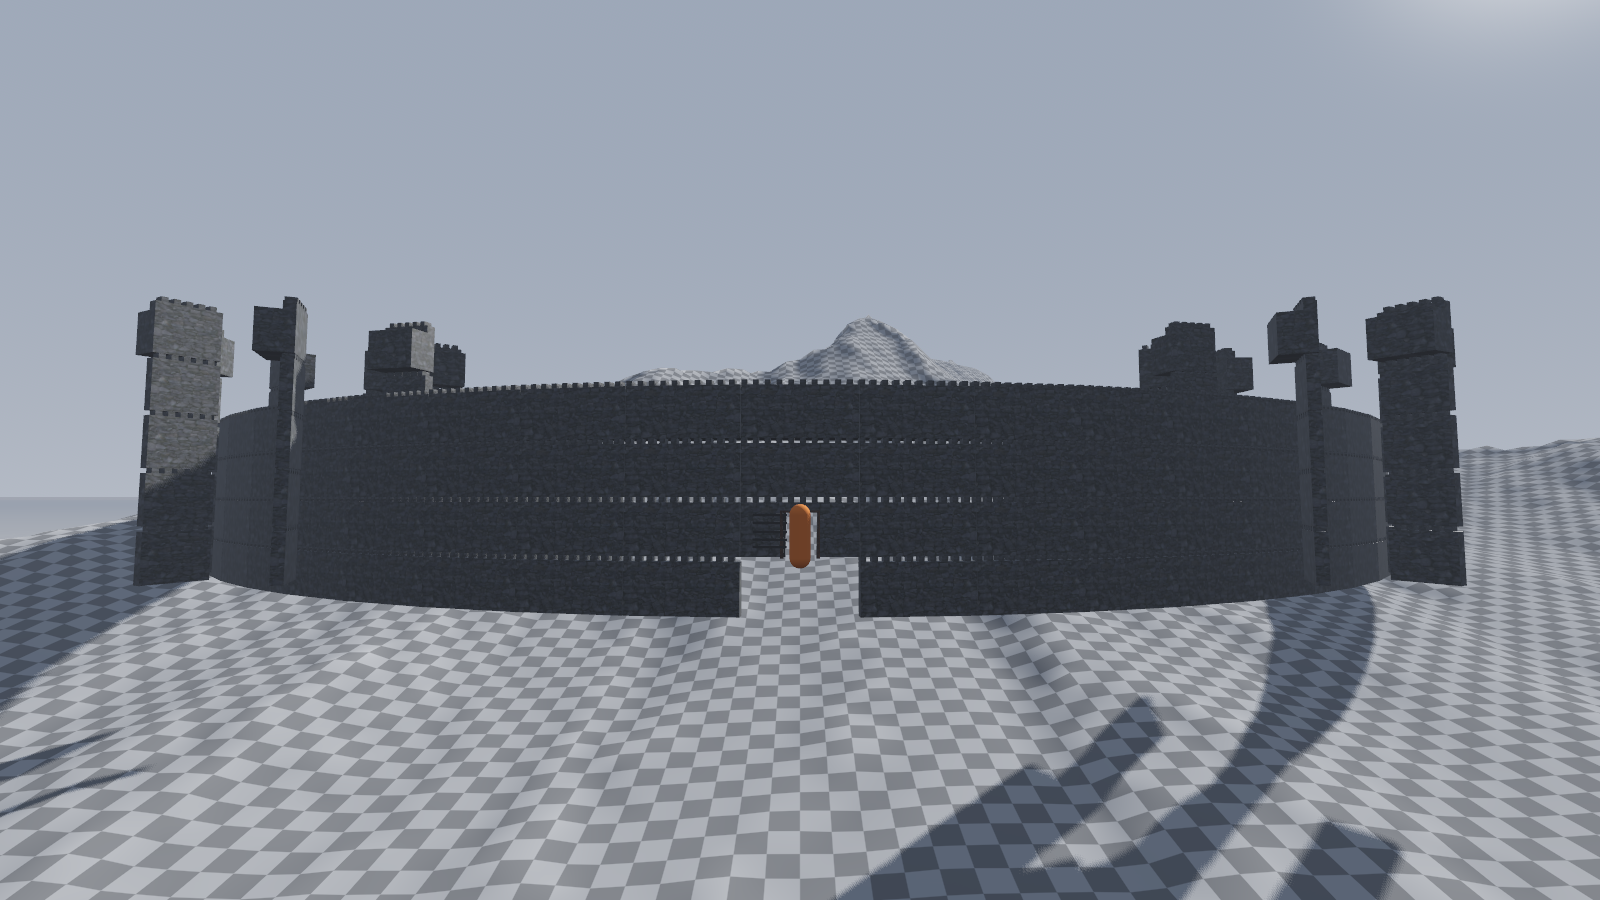
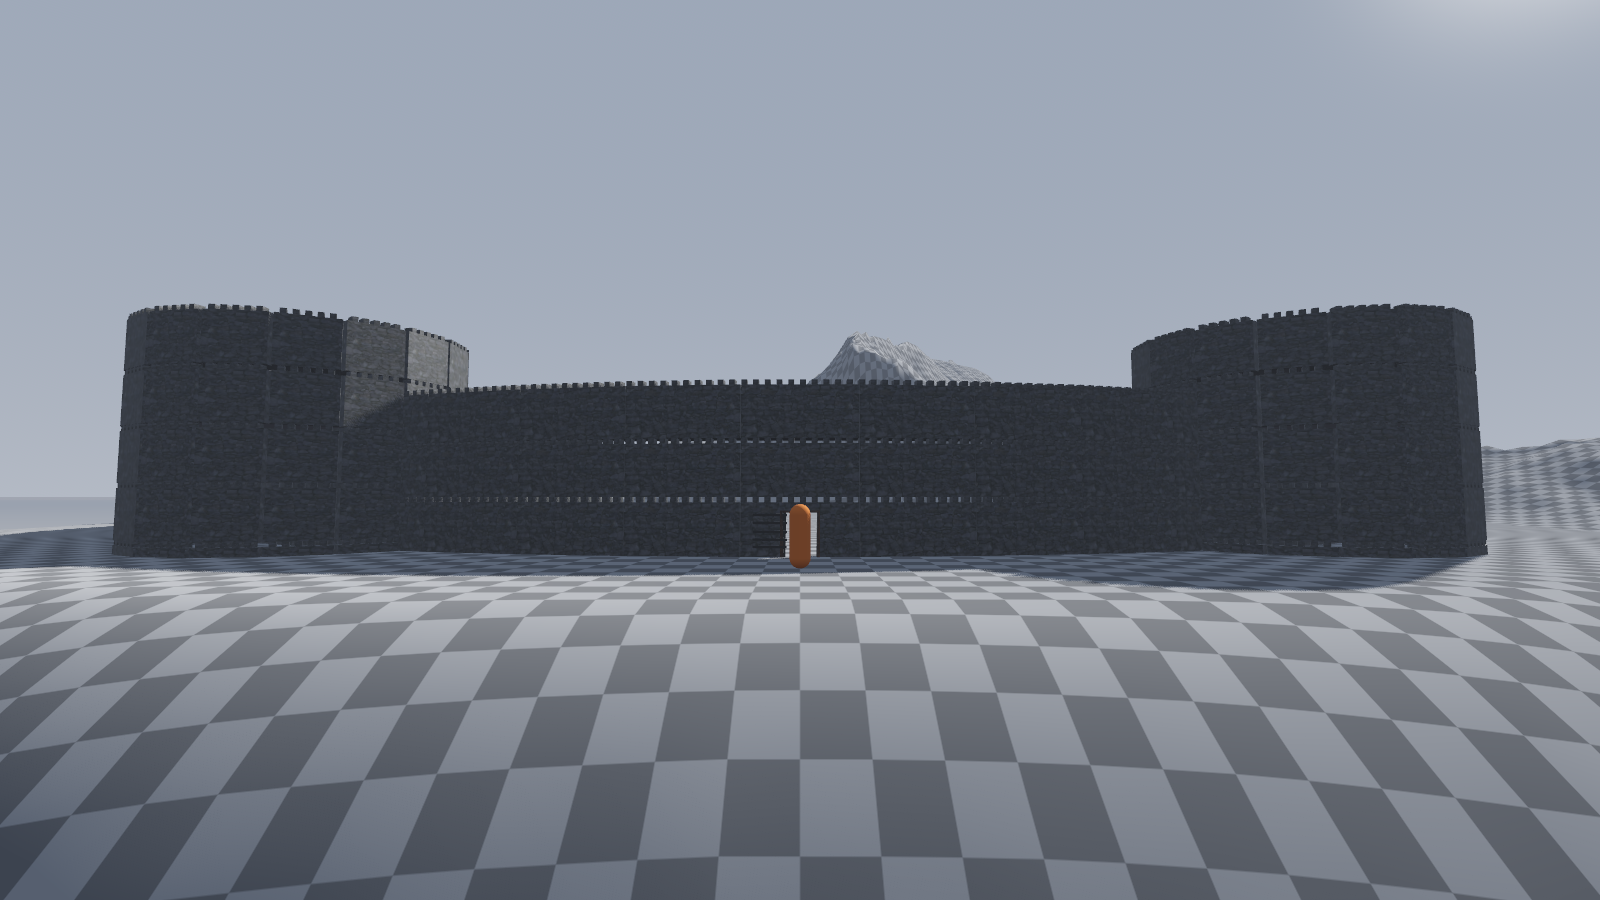
fix: seat fortress to ground, add wall access
Fixed floating walls/towers: Terrain3D flatten now calls data.update_maps() so the rendered/collision mesh actually flattens (get_height changed but the mesh was stale). Every wall/tower column is now seated to local ground (no floating). Round towers rebuilt with 2 m module spacing (closed ring) + inner platform at wall-walk height, and two stone staircases climb from the courtyard onto the wall-walk (entrances onto walls + towers). Added docs/fortress_reference_spec.md (Helm's Deep target: curtain wall, drum tower, gatehouse+ramp, bailey, grand stair, great hall).

diff --git a/docs/fortress_reference_spec.md b/docs/fortress_reference_spec.md
@@ -1,0 +1,87 @@
+# Fortress Reference Spec — "Helm's Deep" target
+
+Distilled from 4 reference images (LOTR film still, collectible diorama, aerial
+render, UE render). This is the visual target the modular build works toward.
+Muted, grounded, weathered — not a bright fantasy palace.
+
+## Overall composition (the "D")
+
+- A fortress wedged into a **rock gorge**: grey cliffs enclose the left, right
+  and rear. The buildable ground is the flat/low **coombe** in front.
+- A long, gently **curved curtain wall** (the *Deeping Wall*) sweeps across the
+  valley and ties into the cliff at its far end — the curved side of the "D".
+- Where the curtain meets the keep, a massive **round drum tower** anchors the bend.
+- The **keep/bailey** is a stack of round + rectangular terraces climbing the
+  rock, topped by a **great hall** built into the cliff — the rear/flat side.
+- Enemy approach = the open coombe in front of the curtain wall.
+
+## Element breakdown (with target dims + MCSTEEG mapping)
+
+1. **Deeping curtain wall**
+   - Long, gently curved, **level wall-walk** on top; **merlon parapet on the
+     OUTER edge only** (open on the courtyard side).
+   - Height ~6 m; **thick** (walk ~2 m clear) — currently too thin (single 0.4 m
+     module) → should be **double thickness**.
+   - Far end runs **into the cliff**; near end meets the drum tower.
+   - MCSTEEG: `Wall_2x4` courses + `Wall_2x4_walkway` (parapet) top, stacked; two
+     rows back-to-back for thickness.
+
+2. **Round drum tower** (the signature piece)
+   - Big **cylinder**, ~10–12 m diameter, taller than the wall (~9–12 m), with a
+     battlemented crown and a walkable top reached from the wall-walk.
+   - Angled **buttresses** at the base. Currently approximated by a ring of flat
+     modules (octagonal, thin) → wants a **fatter, rounder** ring + conical/flat cap.
+   - MCSTEEG: ring of `Wall_2x2`(+walkway); optionally `Roof_Cone` cap; `Tower_*`.
+
+3. **Gatehouse**
+   - A **large arched gate** (wooden doors) flanked by square towers with
+     battlements; a **ramp/causeway** climbs to it along the tower base.
+   - Opening target ~3.5 m wide × ~4 m high (kit gate opening is only ~2 m → stack
+     two gate courses or a bespoke arch).
+   - MCSTEEG: `Gate_2x4` + `Gate_Door`, flanking stacked towers; custom ramp.
+
+4. **Inner bailey / courtyard**
+   - A **round terraced courtyard** ringed by a low wall, inside the drum tower line.
+   - Flat plateau floor. This is where the grand stair begins.
+
+5. **Ramps + grand staircase**
+   - **Curved ramps** hug the round tower; a **broad grand staircase** rises from
+     the bailey up to the great-hall terrace.
+   - Currently only 2 straight utility stairs → wants a wide central stair +
+     curved ramp.
+
+6. **Great hall** (rear, into the cliff)
+   - Rectangular hall with a **row of ~5–6 arched openings (arcade)** + small
+     windows above, set against the rock at the highest terrace.
+   - MCSTEEG: `Building_Shape_Beveled_rectangle` masses + `Gate_2x4` arches as an
+     arcade + `Window_*`; roof `Roof_rectangle`. (No true arcade asset — approximate.)
+
+7. **Rock cliffs / backdrop**
+   - Rugged grey rock frames left/right/rear and the wall's far anchor.
+   - Currently the smooth heightmap hill → later replaced by low-poly cliff geometry.
+
+## Material / mood
+
+- **Muted grey ashlar** with a **green mossy** tint, weathered, low gloss.
+- Cool overcast daylight; long soft shadows; slight aerial haze.
+- No bright colours except small faction banners (green/white horse of Rohan).
+
+## Build order (proposed, modular, each reviewed)
+
+- **A.** Fix ground adhesion + entrances (this pass): flatten refresh, seat all
+  columns, stairs onto the wall, tower platforms. ✅ in progress
+- **B.** Thicken the curtain wall (double row) + outer-only parapet; anchor the
+  far end into the cliff.
+- **C.** Fatter, rounder drum tower with a proper walkable crown + buttresses.
+- **D.** Proper gatehouse: taller arched gate + flanking towers + approach ramp.
+- **E.** Inner bailey ring + grand staircase + curved ramp.
+- **F.** Great hall (arched arcade) set into the rear cliff.
+- **G.** Cliff geometry backdrop; then material/mood pass (moss, haze, lighting).
+
+## Known kit limitations vs target
+
+- Kit walls thin (0.4 m) → double up for thickness.
+- Kit towers square 2 m → build round from rings; true round/buttressed drum
+  needs many segments or custom geometry.
+- Kit gate opening ~2 m tall → stack/бespoke for the ~4 m arch.
+- No arcade / grand-stair / ramp assets → approximate from boxes + gate arches.
